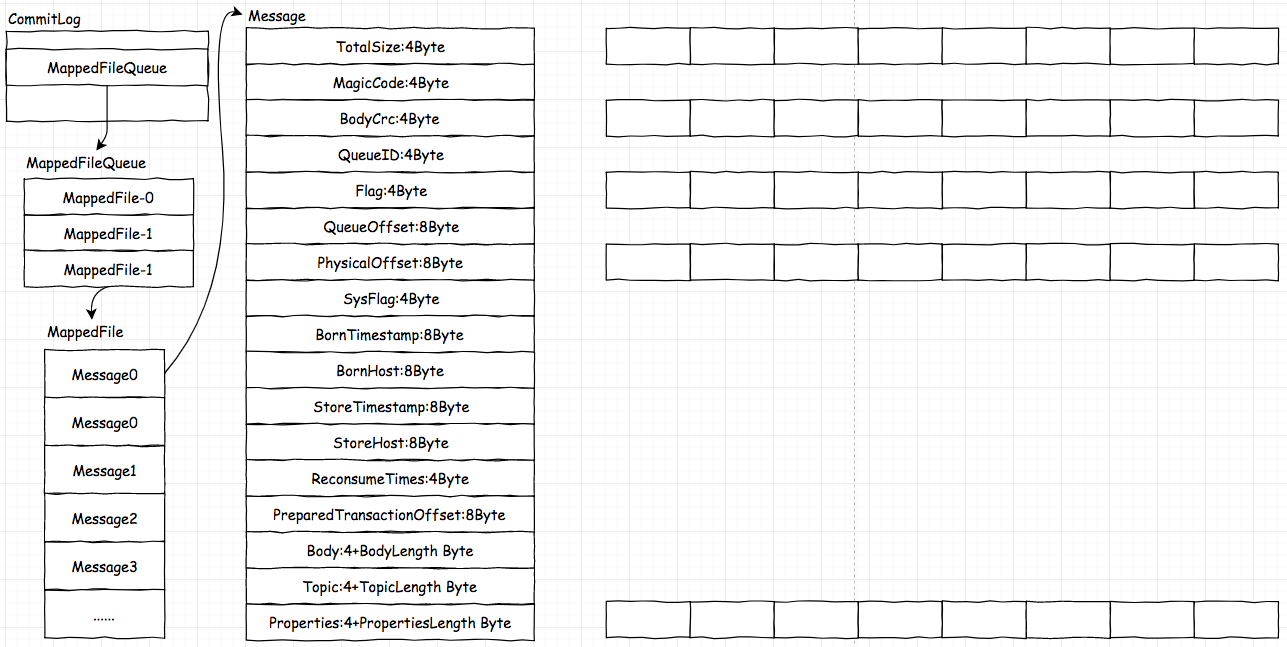
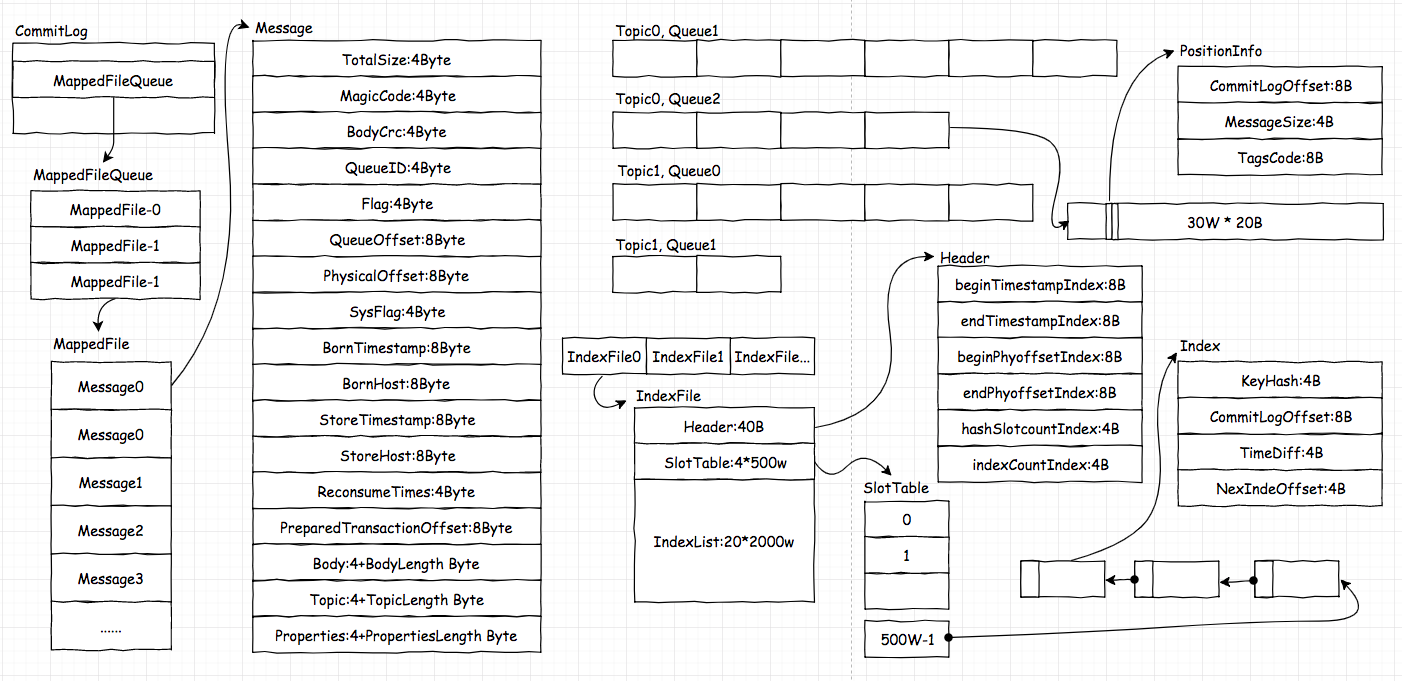
finish commitlog

diff --git a/_posts/2018/2018-10-08-rocketmq-store-commitlog.md b/_posts/2018/2018-10-08-rocketmq-store-commitlog.md
@@ -20,7 +20,7 @@ excerpt_separator: <!--more-->
 　　这里，先根据源码我们抽象出如下的结构示意图，给读者一个宏观的印象，也方便后续的讲解说明。
 
 <div align="center">
-<img src="/assets/img/2018/10/08/RocketMQCommitLog.png" width="75%" height="75%"/>
+<img src="/assets/img/2018/10/08/RocketMQCommitLog.png" width="90%" height="90%"/>
 </div>
 
 　　在`store`包里可以直接看到CommitLog的定义，CommitLog中有个重要的成员变量**MappedFileQueue**，该变量保存着MappedFile列表。MappedFile保存着最终的消息数据。在逻辑上CommitLog可以看成一个无限长的Log文件，消息不断通过追加的方式写到CommitLog的末尾。在实际实现时，这个无限长的日志文件由顺序的MappedFile列表组成，每个MappedFile则顺序保存一定数量的消息。
@@ -453,39 +453,29 @@ excerpt_separator: <!--more-->
         }
 ```
 
-　　如前文介绍MappedFile时所说`MessageStoreConfig().isTransientStorePoolEnable()`为true时，写消息时的数据是先写入堆外内存，因此这种条件下异步刷盘需要先将数据从堆外内存commit到fileChannel的page cache中，然后进行flush。
-
+　　如前文介绍MappedFile时所说`MessageStoreConfig().isTransientStorePoolEnable()`为true时，写消息时的数据是先写入堆外内存，因此这种条件下异步刷盘需要先将数据从堆外内存commit到fileChannel的Page Cache中，然后唤醒FlushRealTimeService进行flush。
 
 ```java
     //CommitLog#CommitRealTimeService.java
     public void run() {
-        CommitLog.log.info(this.getServiceName() + " service started");
         while (!this.isStopped()) {
-            int interval = CommitLog.this.defaultMessageStore.getMessageStoreConfig().getCommitIntervalCommitLog();
-
-            int commitDataLeastPages = CommitLog.this.defaultMessageStore.getMessageStoreConfig().getCommitCommitLogLeastPages();
-
-            int commitDataThoroughInterval =
-                CommitLog.this.defaultMessageStore.getMessageStoreConfig().getCommitCommitLogThoroughInterval();
-
             long begin = System.currentTimeMillis();
+            // 时间太久需要立即commit
             if (begin >= (this.lastCommitTimestamp + commitDataThoroughInterval)) {
                 this.lastCommitTimestamp = begin;
                 commitDataLeastPages = 0;
             }
 
             try {
+                // 从堆外内存写到filechannel中
                 boolean result = CommitLog.this.mappedFileQueue.commit(commitDataLeastPages);
                 long end = System.currentTimeMillis();
                 if (!result) {
-                    this.lastCommitTimestamp = end; // result = false means some data committed.
-                    //now wake up flush thread.
+                    // result为false时则说明有数据提交
+                    // 唤醒flush线程，将数据从从page cache刷新到磁盘上
                     flushCommitLogService.wakeup();
                 }
 
-                if (end - begin > 500) {
-                    log.info("Commit data to file costs {} ms", end - begin);
-                }
                 this.waitForRunning(interval);
             } catch (Throwable e) {
                 CommitLog.log.error(this.getServiceName() + " service has exception. ", e);
@@ -502,7 +492,123 @@ excerpt_separator: <!--more-->
 
 ## <a id="CommitLogDispatcher">CommitLogDispatcher</a>
 
-　　**Todo**: CommitLogDispatcher
+　　回到一开始的问题，所有Topic的数据都通过追加的方式写到CommitLog末尾，那么Consumer如何通过Topic和Offset进行消息的消费呢。答案就是Broker启动之后，有名为**ReputMessageService**的后台线程不断的进行将新写入的数据更新**Index**和**ConsumeQueue**。Index的作用是通过Topic+Key与CommitLogOffset建立关联关系关系用于QueryMessageProcessor的消息消费。ConsumerQueue的作用是建立Queue+QueueOffset与CommitLogOffset之间的关联关系，用于通过PullMessageProcessor进行消费消息。下面来看具体的构建过程。
+
+```java
+    // IndexService.java
+    public void buildIndex(DispatchRequest req) {
+        // 最多尝试三次获取最后一个非空IndexFile,如果没有或者最后一个写满则生成一个新的
+        IndexFile indexFile = retryGetAndCreateIndexFile();
+        if (indexFile != null) {
+            long endPhyOffset = indexFile.getEndPhyOffset();
+            DispatchRequest msg = req;
+            String topic = msg.getTopic();
+            String keys = msg.getKeys();
+            // 旧的请求就会直接退出
+            if (msg.getCommitLogOffset() < endPhyOffset) {
+                return;
+            }
+
+            final int tranType = MessageSysFlag.getTransactionValue(msg.getSysFlag());
+            switch (tranType) {
+                // ...
+                // 剔除TRANSACTION_ROLLBACK_TYPE类型
+                case MessageSysFlag.TRANSACTION_ROLLBACK_TYPE:
+                    return;
+            }
+
+            if (req.getUniqKey() != null) {
+
+                // 在IndexFile中写入Topic#UniqKey与CommitLogOffset的关联
+                indexFile = putKey(indexFile, msg, buildKey(topic, req.getUniqKey()));
+                // ...
+            }
+
+            if (keys != null && keys.length() > 0) {
+                // 每个key在IndexFile中写入Topic#Key与CommitLogOffset的关联 
+                String[] keyset = keys.split(MessageConst.KEY_SEPARATOR);
+                for (int i = 0; i < keyset.length; i++) {
+                    String key = keyset[i];
+                    if (key.length() > 0) {
+                        indexFile = putKey(indexFile, msg, buildKey(topic, key));
+                        // ...
+                    }
+                }
+            }
+        } else {
+            log.error("build index error, stop building index");
+        }
+    }
+
+```
+
+　　IndexFile与CommitLog相似，可以看成分段的无限长的Log的抽象。并且大小固定，写满则新生成一个继续写。IndexService通过调用IndexFile.putKey()方法不断地将Topic#Key与CommitLogOffset关联关系按照固定格式写到IndexFile文件中，不过写的过程中并不是简单的将记录写在尾部，而是还会对一些其他数据做出修改，使得文件内部结构类似于拉链的Hash表。对照博文开头的大图看具体写入过程。
+
+```java
+    // IndexFile.java
+    public boolean putKey(final String key, final long phyOffset, final long storeTimestamp) {
+        if (this.indexHeader.getIndexCount() < this.indexNum) {
+            int keyHash = indexKeyHashMethod(key);
+            // 根据key的hash取模获得槽的位置 hashSlotNum默认值为500w
+            int slotPos = keyHash % this.hashSlotNum;
+            int absSlotPos = IndexHeader.INDEX_HEADER_SIZE + slotPos * hashSlotSize;
+
+            FileLock fileLock = null;
+            try {
+                // 查看该槽内有多少记录，该记录数会写入本条index中用于逻辑上将这些记录串起来
+                int slotValue = this.mappedByteBuffer.getInt(absSlotPos);
+                if (slotValue <= invalidIndex || slotValue > this.indexHeader.getIndexCount()) {
+                    slotValue = invalidIndex;
+                }
+
+                long timeDiff = // timeDiff处理
+                // 计算在FileIndex中的偏移位置
+                // head(40B) + SlotTable大小(400w * 4B) + 已有记录数目*20B
+                int absIndexPos =
+                    IndexHeader.INDEX_HEADER_SIZE + this.hashSlotNum * hashSlotSize
+                        + this.indexHeader.getIndexCount() * indexSize;
+                // 写入记录
+                this.mappedByteBuffer.putInt(absIndexPos, keyHash);
+                this.mappedByteBuffer.putLong(absIndexPos + 4, phyOffset);
+                this.mappedByteBuffer.putInt(absIndexPos + 4 + 8, (int) timeDiff);
+                // 将本槽内已有记录数（不含本条）写入用于将记录串联
+                this.mappedByteBuffer.putInt(absIndexPos + 4 + 8 + 4, slotValue);
+
+                // 在槽内写入本条Index的位置信息
+                this.mappedByteBuffer.putInt(absSlotPos, this.indexHeader.getIndexCount());
+
+                if (this.indexHeader.getIndexCount() <= 1) {
+                    this.indexHeader.setBeginPhyOffset(phyOffset);
+                    this.indexHeader.setBeginTimestamp(storeTimestamp);
+                }
+
+                // 更新缓存
+                this.indexHeader.incHashSlotCount();
+                this.indexHeader.incIndexCount();
+                this.indexHeader.setEndPhyOffset(phyOffset);
+                this.indexHeader.setEndTimestamp(storeTimestamp);
+
+                return true;
+            } 
+
+            // other ...
+
+        return false;
+    }
+```
+
+　　ConsumeQueue的更新比较简单了，根据Topic和QueueId获取到ConsumeQueue。每一个ConsumeQueue也可以看成分段的无限长的AppendLog。更新记录时按顺序写入记录，记录固定是CommitLogOffset+MessageSize+TagCode,共20Byte。Consumer根据QueueId+QueueOffset读到一条记录按照里面信息再去CommitLog中读取数据进行消费。
+
+```java
+    public void putMessagePositionInfo(DispatchRequest dispatchRequest) {
+        ConsumeQueue cq = this.findConsumeQueue(dispatchRequest.getTopic(), dispatchRequest.getQueueId());
+        cq.putMessagePositionInfoWrapper(dispatchRequest);
+    }
+```
+
+## <a id="conclusion">Conclusion</a>
+
+　　到这里RocketMQ存储CommitLog及围绕在周边的一些后台任务和访问方法就介绍完了。RocketMQ为了实现高效的消息队列读写进行了一系列优化，通过后台定时任务+CountDownLatch方式将同步优化为异步、文件预热、jna锁定物理页，MappedFile之外通过堆外内存异步更新数据、后台线程异步更新Index,ConsumeQueue等方式提升读写性能，对存储部分的优化做了很深入的设计与实现。
 
 ## <a id="References">References</a>
 
